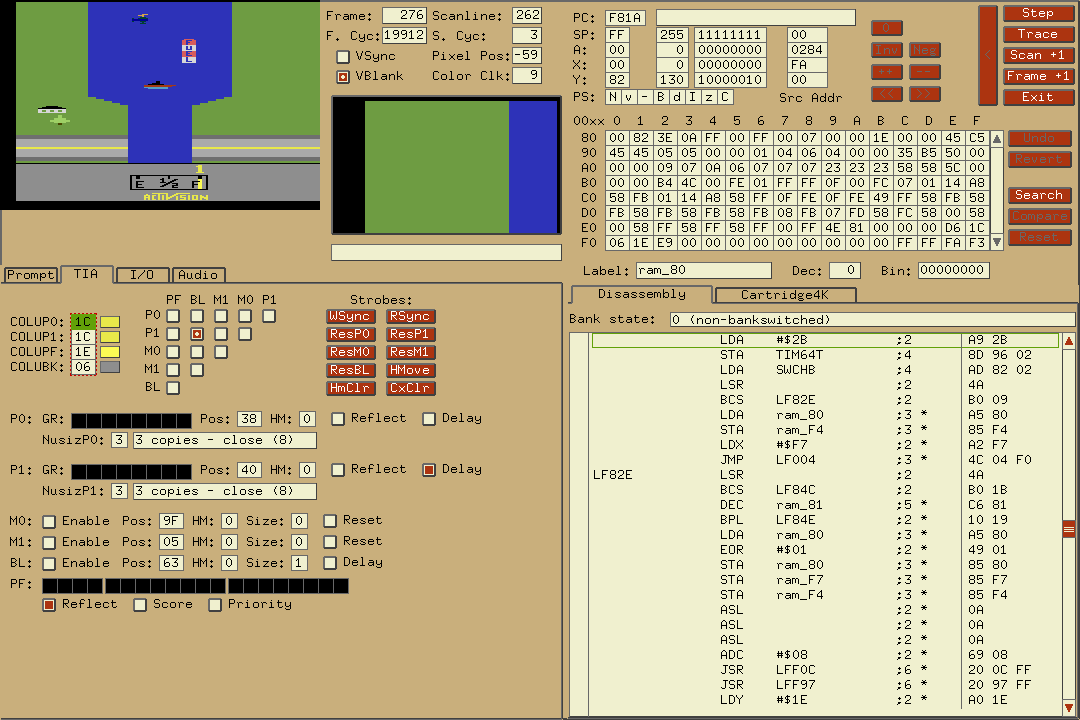
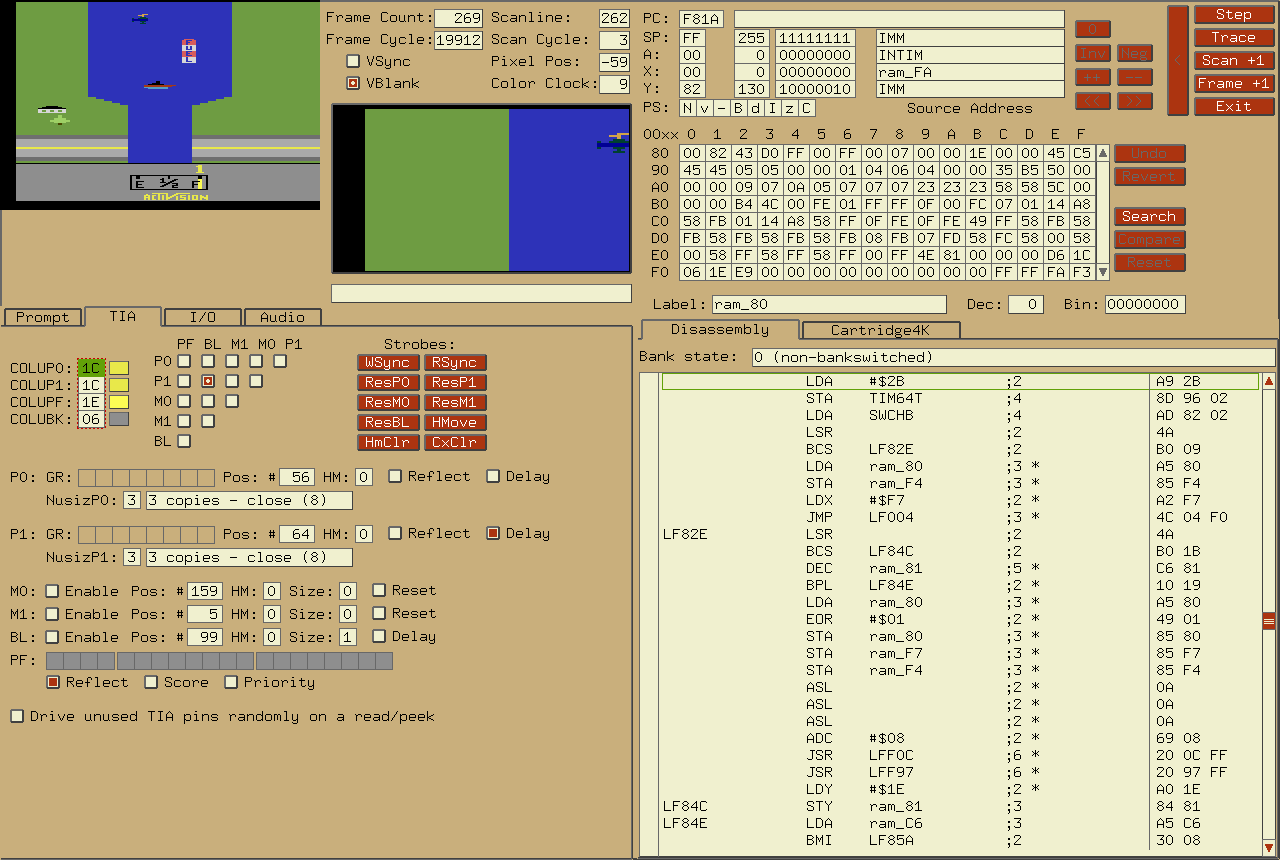
Updated main webpage for impending release.

diff --git a/htdocs/docs/debugger.html b/htdocs/docs/debugger.html
@@ -62,6 +62,10 @@ feature that no other 2600 debugger has; it's <b>completely</b> cross-platform.<
 		including automatically loading symbol files if they're named
 		romname.sym</li>
 
+	<li>Support for DASM list files (created with DASM's -l option),
+		including automatically loading list files if they're named
+		romname.lst</li>
+
 	<li>Built-in VCS.H symbols, if no symbol file is loaded.</li>
 
 	<li>Symbolic names in disassembly.</li>
@@ -143,11 +147,12 @@ or right arrow keys cycles between tabs from right-to-left and left-to-right,
 respectively.  Pressing Tab cycles between widgets in the current tab (except
 for in the Prompt area, where 'tab' is used for something else).</p>
 
-<p>You can also enter the debugger at emulator startup by giving a breakpoint on the command line:
+<p>You can also enter the debugger at emulator startup by use the 'debug' command on the command line, or alternatively within the ROM launcher in 'Power-on options':
 <pre>
-  ; will enter the debugger the first time the instruction at "kernel" runs
-  stella -break kernel mygame.bin
+  ; will enter the debugger before any instructions run
+  stella -debug mygame.bin
 
+  ; alternatively, you can use 'break' to accomplish the same thing
   ; $fffc is the 6502/6507 init vector. This command will break and enter the
   ; debugger before the first 6507 instruction runs, so you can debug the
   ; startup code:
@@ -343,8 +348,7 @@ to change the meaning of an expression. The prefixes are:</p>
 		the section on "Startup").</p>
 
 		<p>Remember, you can use arbitrarily complex expressions with any
-		command that takes arguments (except the ones that take filenames,
-		like "loadsym").</p>
+		command that takes arguments.</p>
 	</li>
 </ul>
 
@@ -653,7 +657,6 @@ listfunctions - List user-defined functions
     listtraps - List traps
    loadconfig - Load Distella config file
     loadstate - Load emulator state xx (0-9)
-      loadsym - Load symbol file
             n - Negative Flag: set (0 or 1), or toggle (no arg)
            pc - Set Program Counter to address xx
          pgfx - Mark 'PGFX' range in disassembly
@@ -682,6 +685,7 @@ listfunctions - List user-defined functions
      trapread - Trap read access to address(es) xx [to yy]
     trapwrite - Trap write access to address(es) xx [to yy]
          type - Show disassembly type for address xx [to yy]
+         uhex - Toggle upper/lowercase HEX display
         undef - Undefine label xx (if defined)
             v - Overflow Flag: set (0 or 1), or toggle (no arg)
         watch - Print contents of address xx before every prompt
@@ -700,8 +704,7 @@ listfunctions - List user-defined functions
 <p><img src="graphics/debugger_tiatab.png"></p>
 
 <p>Most of the values on the TIA tab will be self-explanatory to a 2600
-programmer. The top line (with all the hex values) displays the raw
-values read from the TIA locations, as they would be seen by the CPU.<p>
+programmer.<p>
 
 <p>Many of the variables inside the TIA can only be written to by the
 6502.  The debugger lets you get inside the TIA and see the contents
@@ -799,13 +802,13 @@ as illustrated:</p>
 <p><img src="graphics/debugger_tiainfo.png"></p>
 <p>The indicators are as follows:</p>
 <ul>
-<li><b>Frame</b>: The current frame number, since this ROM was loaded or reset.</li>
-<li><b>F. Cyc</b>: The number of CPU cycles that have been executed this frame, since
+<li><b>Frame Count</b>: The current frame number, since this ROM was loaded or reset.</li>
+<li><b>Frame Cycle</b>: The number of CPU cycles that have been executed this frame, since
 VSYNC was cleared at scanline 0.</li>
 <li><b>Scanline</b>: The scanline that's currently being drawn. Scanline 0 is the one
 on which VSYNC is cleared (after being set for 3 scanlines, as per the Stella
 Programmer's Guide)</li>
-<li><b>S. Cyc</b>: The number of CPU cycles that have been executed since the beginning
+<li><b>Scan Cycle</b>: The number of CPU cycles that have been executed since the beginning
 of the current scanline.</li>
 <li><b>VSYNC &amp; VBLANK</b>: Self explanatory.</li>
 <li><b>Pixel Pos</b>: The current number of visible color clocks that have been displayed on
@@ -813,7 +816,7 @@ the current scanline, starting from the beginning of the Horizontal Blank period
 During HBLANK, this value will be negative (representing the number of clocks
 until the first visible one). Since there are 68 color clocks per HBLANK and
 160 visible clocks per scanline, the Pixel Position will range from -68 to 159.</li>
-<li><b>Color Clk</b>: The current number of total color clocks since the beginning of this
+<li><b>Color Clock</b>: The current number of total color clocks since the beginning of this
 scanline's HBLANK. This counter starts at zero, but otherwise displays the same
 information as the Pixel Position (so Color Clock will always be 68 more than Pixel
 Position, and will range from 0 to 228).</li>

diff --git a/htdocs/docs/index.html b/htdocs/docs/index.html
@@ -10,7 +10,7 @@
   <br><br>
   <center><h2><b>A multi-platform Atari 2600 VCS emulator</b></h2></center>
 
-  <center><h4><b>Release 3.9</b></h4></center>
+  <center><h4><b>Release 3.9.1</b></h4></center>
   <br><br>
 
   <center><h2><b>User's Guide</b></h2></center>
@@ -54,7 +54,7 @@
 
   <br><br><br>
 
-  <center><b>February 1999 - June 2013</b></center>
+  <center><b>February 1999 - August 2013</b></center>
     <center><b>The Stella Team</b></center>
   <center><b><a href="http://stella.sourceforge.net">Stella Homepage</a></b></center>
 
@@ -2230,8 +2230,15 @@
     </tr>
 
     <tr>
-      <td><pre>-holdreset</pre></td>
-      <td>Start the emulator with the Game Reset switch held down.</td>
+      <td><pre>-holdjoy0 &lt;U,D,L,R,F&gt;</pre></td>
+      <td>Start the emulator with the left joystick direction/button held down
+        (ie, use 'UF' for up and fire).</td>
+    </tr>
+
+    <tr>
+      <td><pre>-holdjoy1 &lt;U,D,L,R,F&gt;</pre></td>
+      <td>Start the emulator with the right joystick direction/button held down
+        (ie, use 'UF' for up and fire).</td>
     </tr>
 
     <tr>
@@ -2240,8 +2247,8 @@
     </tr>
 
     <tr>
-      <td><pre>-holdbutton0</pre></td>
-      <td>Start the emulator with the left joystick button held down.</td>
+      <td><pre>-holdreset</pre></td>
+      <td>Start the emulator with the Game Reset switch held down.</td>
     </tr>
 
     <tr>
@@ -2673,11 +2680,11 @@
   contains the following items:</p>
 
   <p><ol>
-    <li><p><b>Override properties</b>: Selecting this option shows a dialog whereby
-    ROM properties can be temporarily overriden.  Selecting options from this
-    dialog will cause all ROMs launched after that to use those properties
-    you specify.  Clicking <b>Default</b> will disable its functionality,
-    and use ROM properties as defined by the ROM itself.  The dialog is as
+    <li><p><b>Power-on options</b>: Selecting this option shows a dialog whereby
+    ROM properties can be temporarily overriden, and joystick/console buttons can be
+    temporarily held down.  Selecting options from this dialog will cause all ROMs launched
+    after that to use those properties you specify.  Clicking <b>Defaults</b> will disable
+    its functionality, and use ROM properties as defined by the ROM itself.  The dialog is as
     follows (See <b>Advanced Configuration - <a href="#Properties">Game Properties</a></b>
     for more information concerning ROM properties):</p>
   <table border="5" cellpadding="2" frame="box" rules="none">
@@ -2691,9 +2698,11 @@
           <tr><td>Left Difficulty</td><td>-ld</td></tr>
           <tr><td>Right Difficulty</td><td>-rd</td></tr>
           <tr><td>TV Type</td><td>-tv</td></tr>
-          <tr><td>Hold Select down</td><td>-holdselect</td></tr>
-          <tr><td>Hold Reset down</td><td>-holdreset</td></tr>
-          <tr><td>Hold Button 0 down</td><td>-holdbutton0</td></tr>
+          <tr><td>Startup Mode</td><td>-debug</td></tr>
+          <tr><td>Left joy items</td><td>-holdjoy0</td></tr>
+          <tr><td>Right joy items</td><td>-holdjoy1</td></tr>
+          <tr><td>Console: Select</td><td>-holdselect</td></tr>
+          <tr><td>Console: Reset</td><td>-holdreset</td></tr>
         </table>
         <p></p>
       </td>

diff --git a/htdocs/stellanews.php b/htdocs/stellanews.php
@@ -12,6 +12,119 @@
 			<div class="content">
 
 <!---------------------------------------------------------------->
+<H4>August 21, 2013</H4>
+Stella release 3.9.1 for Linux, MacOS X and Windows is now available.
+<ul>
+  <li><b>Note: because of TIA/6502 changes, the state file format has changed
+         again, and old state files will not work with this release.</b></li>
+
+<li>Several bugfixes and improvements to the debugger:
+  <ul>
+    <li>Improved display of debugger when using larger video modes.  There
+        are now three font sizes, which are automatically selected when
+        the debugger is sized accordingly.  When using larger fonts, the
+        extra space is now used more efficiently.</li>
+
+    <li>Fixed bug in disassembly when the mirror used for the current
+        PC didn't match the mirror for the current bank.  In this case,
+        the disassembler became confused and didn't properly track the
+        PC address.</li>
+
+    <li>Fixed bug in display of current TIA frame number in the UI;
+        depending on how breakpoints were set, it was sometimes off by
+        one.</li>
+
+    <li>Fixed RAM widget Search/Compare textboxes; entering any data and
+        then pressing 'Enter' / clicking 'OK' locked the UI until exiting
+        and re-entering the debugger.</li>
+
+    <li>Changed display for various TIA position counters to decimal
+        (from hex) in the TIA tab.  Related to this, all data input
+        widgets in the UI now have the ability to enter binary,
+        decimal or hex values by using the proper leading character
+        (\, #, $, respectively).</li>
+
+    <li>Added 'INTIM Clks' to the 'I/O' tab. which shows the number of
+        clocks between each 'step' of the INTIM timer.</li>
+
+    <li>Added ability to modify 'tiadriven' commandline argument to the
+        'TIA' tab, and 'ramrandom' to the 'I/O' tab.  These options were
+        available for quite some time, but they weren't exposed in the UI.</li>
+
+    <li>Added 'cpurandom' commandline argument, and associated UI item
+        to the 'I/O' tab.  This works similar to 'ramrandom', and
+        randomizes the contents of the CPU registers on ROM startup.</li>
+
+    <li>Added 'uhex' debugger prompt command, which toggles all
+        hexadecimal display between upper/lower case.  This setting is
+        also saved in the settings file as argument 'dbg.uhex'.</li>
+
+    <li>Removed 'loadsym' command from the debugger prompt, since the
+        DASM symbol file is always loaded anyway, making the command
+        redundant.  Related to this, fixed loading symbols with
+        ###.name convention; the leading number is now stripped.</li>
+
+    <li>Added support for DASM lst files (created with the -l option).
+        For now, the contents are only partially used, to detect
+        constants vs. symbolic addresses in the symbol file.  Eventually,
+        further information from the lst file may be used.</li>
+
+    <li>The GRPx and PFx registers in the TIA output now show inactive
+        background pixels as either blanked or with the underlying object
+        colour, instead of always being black.   This gives a more accurate
+        representation of how the registers are actually drawn onscreen.
+        Thanks to Tjoppen of AtariAge for this idea and sample code.</li>
+
+    <li>The 'Source Address' locations for the CPU registers now show
+        labels where appropriate.</li>
+  </ul>
+</li>
+
+<li>Renamed 'Override properties' dialog (accessible from the ROM
+    launcher by a right-mouse-button click) to 'Power-on options', with
+    the following new options:
+  <ul>
+    <li>Set start-up state for both joysticks as well as console select/
+        reset buttons.  Related to this, added 'holdjoy01' and 'holdjoy1'
+        commandline arguments, and removed 'holdbutton0' argument.</li>
+
+    <li>The ability to load the ROM directly from this dialog, after
+        changing any settings, and also to start in the debugger.</li>
+
+    <li>Added more detailed information as to how to use this
+        functionality to the UI.</li>
+
+    <li>Buttons held down are reset approx. 0.5 seconds after starting
+        the ROM, to simulate pressing and releasing the buttons on a
+        real console.</li>
+  </ul>
+</li>
+
+<li>Fixed bug when using event remapping; changes were being saved only
+    when launching a ROM from the launcher, not in standalone mode.</li>
+
+<li>Improved bankswitch autodetection for newer EF and EFSC ROMs
+    generated by batari Basic, thanks to RevEng of AtariAge.</li>
+
+<li>Added properties database info for "Princess Rescue" ROM.</li>
+
+<li>For the Linux/UNIX port:
+  <ul>
+    <li>Fixed bug whereby a maximize button was always present in the
+        window title bar.  Stella could not be expanded in this way,
+        so the button was removed.</li>
+
+    <li>Added Startup notification protocol patch to the .desktop
+        file from Dan Fandrich.</li>
+  </ul>
+</li>
+
+<li>Updated included PNG library to latest stable version.</li>
+</ul>
+
+-Have fun!
+
+
 <H4>June 27, 2013</H4>
 Stella release 3.9 for Linux, MacOS X and Windows is now available.
 <ul>
@@ -97,8 +210,6 @@ Stella release 3.9 for Linux, MacOS X and Windows is now available.
 
 <li>Updated included PNG and ZLIB libraries to latest stable version.</li>
 </ul>
-
--Have fun!
 
 
 <H4>March 13, 2013</H4>

diff --git a/htdocs/downloads.php b/htdocs/downloads.php
@@ -15,57 +15,57 @@
 <table BORDER=0 CELLPADDING=6 WIDTH="100%">
 
 	<tr>
-		<td><b>Latest&nbsp;Release (v/ 3.9)</b></td>
+		<td><b>Latest&nbsp;Release (v/ 3.9.1)</b></td>
 		<td>&nbsp;</td>
 	</tr>
 
 	<tr>
-		<td BGCOLOR="#CCCCCC"><a href="http://prdownloads.sourceforge.net/stella/Stella-3.9-win32.exe?download">Stella-3.9-win32.exe</a></td>
+		<td BGCOLOR="#CCCCCC"><a href="http://prdownloads.sourceforge.net/stella/Stella-3.9.1-win32.exe?download">Stella-3.9.1-win32.exe</a></td>
 		<td BGCOLOR="#FFCC99">Binary installer (exe) for 32-bit Windows XP/Vista/7/8</td>
 	</tr>
 
 	<tr>
-		<td BGCOLOR="#CCCCCC"><a href="http://prdownloads.sourceforge.net/stella/Stella-3.9-x64.exe?download">Stella-3.9-x64.exe</a></td>
+		<td BGCOLOR="#CCCCCC"><a href="http://prdownloads.sourceforge.net/stella/Stella-3.9.1-x64.exe?download">Stella-3.9.1-x64.exe</a></td>
 		<td BGCOLOR="#FFCC99">Binary installer (exe) for 64-bit Windows XP/Vista/7/8</td>
 	</tr>
 
 	<tr>
-		<td BGCOLOR="#CCCCCC"><a href="http://prdownloads.sourceforge.net/stella/Stella-3.9-windows.zip?download">Stella-3.9-windows.zip</a></td>
+		<td BGCOLOR="#CCCCCC"><a href="http://prdownloads.sourceforge.net/stella/Stella-3.9.1-windows.zip?download">Stella-3.9.1-windows.zip</a></td>
 		<td BGCOLOR="#FFCC99">Binary ZIP (32-bit and 64-bit) for Windows XP/Vista/7/8</td>
 	</tr>
 
 	<tr>
-		<td BGCOLOR="#CCCCCC"><a href="http://prdownloads.sourceforge.net/stella/Stella-3.9-macosx.dmg?download">Stella-3.9-macosx.dmg</a></td>
+		<td BGCOLOR="#CCCCCC"><a href="http://prdownloads.sourceforge.net/stella/Stella-3.9.1-macosx.dmg?download">Stella-3.9.1-macosx.dmg</a></td>
 		<td BGCOLOR="#FFCC99">Binary DMG for MacOS X (32-bit Universal Binary, version 10.4 and higher)</td>
 	</tr>
 
 	<tr>
-		<td BGCOLOR="#CCCCCC"><a href="http://prdownloads.sourceforge.net/stella/Stella-3.9_intel-macosx.dmg?download">Stella-3.9_intel-macosx.dmg</a></td>
+		<td BGCOLOR="#CCCCCC"><a href="http://prdownloads.sourceforge.net/stella/Stella-3.9.1_intel-macosx.dmg?download">Stella-3.9.1_intel-macosx.dmg</a></td>
 		<td BGCOLOR="#FFCC99">Binary DMG for MacOS X (32/64-bit, Intel CPU/10.6+ only)</td>
 	</tr>
 
 	<tr>
-		<td BGCOLOR="#CCCCCC"><a href="http://prdownloads.sourceforge.net/stella/stella_3.9-1_i386.deb?download">stella_3.9-1_i386.deb</a></td>
+		<td BGCOLOR="#CCCCCC"><a href="http://prdownloads.sourceforge.net/stella/stella_3.9.1-1_i386.deb?download">stella_3.9.1-1_i386.deb</a></td>
 		<td BGCOLOR="#FFCC99">Binary 32-bit DEB for Ubuntu 13.04 (Raring Ringtail)</td>
 	</tr>
 
 	<tr>
-		<td BGCOLOR="#CCCCCC"><a href="http://prdownloads.sourceforge.net/stella/stella_3.9-1_amd64.deb?download">stella_3.9-1_amd64.deb</a></td>
+		<td BGCOLOR="#CCCCCC"><a href="http://prdownloads.sourceforge.net/stella/stella_3.9.1-1_amd64.deb?download">stella_3.9.1-1_amd64.deb</a></td>
 		<td BGCOLOR="#FFCC99">Binary 64-bit DEB for Ubuntu 13.04 (Raring Ringtail)</td>
 	</tr>
 
 	<tr>
-		<td BGCOLOR="#CCCCCC"><a href="http://prdownloads.sourceforge.net/stella/stella-3.9-2.i386.rpm?download">stella-3.9-2.i386.rpm</a></td>
+		<td BGCOLOR="#CCCCCC"><a href="http://prdownloads.sourceforge.net/stella/stella-3.9.1-2.i386.rpm?download">stella-3.9.1-2.i386.rpm</a></td>
 		<td BGCOLOR="#FFCC99">Binary 32-bit RPM for Linux (tested in Fedora)</td>
 	</tr>
 
 	<tr>
-		<td BGCOLOR="#CCCCCC"><a href="http://prdownloads.sourceforge.net/stella/stella-3.9-2.x86_64.rpm?download">stella-3.9-2.x86_64.rpm</a></td>
+		<td BGCOLOR="#CCCCCC"><a href="http://prdownloads.sourceforge.net/stella/stella-3.9.1-2.x86_64.rpm?download">stella-3.9.1-2.x86_64.rpm</a></td>
 		<td BGCOLOR="#FFCC99">Binary 64-bit RPM for Linux (tested in Fedora)</td>
 	</tr>
 
 	<tr>
-		<td BGCOLOR="#CCCCCC"><a href="http://prdownloads.sourceforge.net/stella/stella-3.9-src.tar.gz?download">stella-3.9-src.tar.gz</a></td>
+		<td BGCOLOR="#CCCCCC"><a href="http://prdownloads.sourceforge.net/stella/stella-3.9.1-src.tar.gz?download">stella-3.9.1-src.tar.gz</a></td>
 		<td BGCOLOR="#FFCC99">Source code tarball for all systems</td>
 	</tr>
 

diff --git a/htdocs/footer.php b/htdocs/footer.php
@@ -2,4 +2,4 @@
 <a href="http://www.bradfordmott.com">Bradford W. Mott</a>, 
 <a href="http://minbar.org">Stephen Anthony</a> and 
 <a href="theteam.php">The Stella Team</a>
-<br/>	Site Updated June 26, 2013</p>
+<br/>	Site Updated August 21, 2013</p>

diff --git a/htdocs/credits.php b/htdocs/credits.php
@@ -241,6 +241,11 @@
     </tr>
 
     <tr>
+      <th>Daniel&nbsp;Delorme</th>
+      <td>Donated a monetary contribution</td>
+    </tr>
+
+    <tr>
       <th>Joe&nbsp;Durnavich</th>
       <td>Donated a monetary contribution</td>
     </tr>
